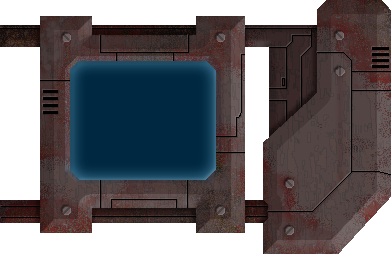
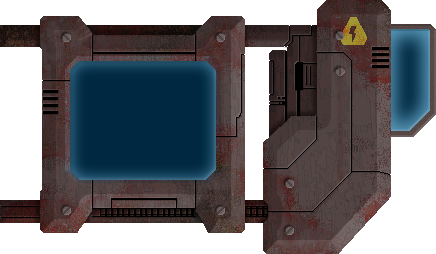
bottom panel is in, styling now

diff --git a/src/components/header/style.module.scss b/src/components/header/style.module.scss
@@ -24,6 +24,16 @@
   position: absolute;
   left: 0;
   top: 0;
+  z-index: 98;
+  max-height: 40vh;
+}
+
+.panel2 {
+  position: absolute;
+  top: 0;
+  left: 0;
+  z-index: 98;
+  max-height: 40vh;
 }
 
 .digitalText {
@@ -42,6 +52,7 @@
 .lightButtonOn,
 .lightButtonOff {
   position: absolute;
+  z-index: 101;
   left: -60px;
   top: -45px;
   // margin-top: -1.8vh;
@@ -75,7 +86,7 @@
 
 .linksPanelGroup {
   padding: 2rem;
-  margin: 1rem;
+  // margin: 1rem;
   position: fixed;
   z-index: 99;
   left: 0;
@@ -83,12 +94,12 @@
   // height: 50vh;
   // width: 10vw;
   color: white;
-  background-color: rgba(0, 97, 114, 0.65);
+  //background-color: rgba(0, 97, 114, 0.65);
   display: flex;
   flex-direction: column;
   justify-content: flex-start;
   align-items: flex-start;
-  font-size: 2rem;
+  font-size: 2.2rem;
   font-weight: 600;
 
   transition: 1s;
@@ -102,6 +113,8 @@
 .linksPanelGroup a {
   text-decoration: none;
   color: rgba(255, 255, 255, 0.6);
+  position: relative;
+  z-index: 100;
 }
 
 .linksPanelGroup a:hover {

diff --git a/src/pages/backstory-screen/index.js b/src/pages/backstory-screen/index.js
@@ -17,7 +17,7 @@ const BackstoryScreen = () => {
                 <li>-1,383 : Xen-Seti laced colonial worlds one-by-one begin going dark. All human life on these worlds vanishes.</li>
                 <li>-1,209 : The Xen-Seti begin appearing on worlds in which they were previously not present. War is declared on the threat. The reagency offers no aid.</li>
                 <li>-1,030 : Human dominance over the galaxy is broken. Humans begin retracting deeper and deeper into their own territory, but always the Xen-Seti appear.</li>
-                <li>-670 : All trace of human life dissapears.</li>
+                <li>-670 : The human home system is invaded. All trace of human life dissapears.</li>
             </article>
         </div>
     )

diff --git a/src/components/header/index.js b/src/components/header/index.js
@@ -1,6 +1,7 @@
 import React from 'react';
 import generalStyle from './style.module.scss';
 import dsPanel1 from './ds-react-panel1.png';
+import dsPanel2 from './ds-react-art2.png';
 import greenOff from './greenOff.png';
 import greenOn from './greenOn.png';
 import { useState } from 'react';
@@ -58,6 +59,8 @@ const Header = () => {
     const linksPanel = () => {
         return (
             <div style={isNavOpen ? linksDivClosed:linksDivOpen} className={generalStyle.linksPanelGroup}>
+                <img className={generalStyle.panel2} src={dsPanel2} alt="Machine Panel" />
+
                 <a href="/">Home</a>
                 <a href="/backstory">Then</a>
                 <a href="/presentDay">Now</a>
